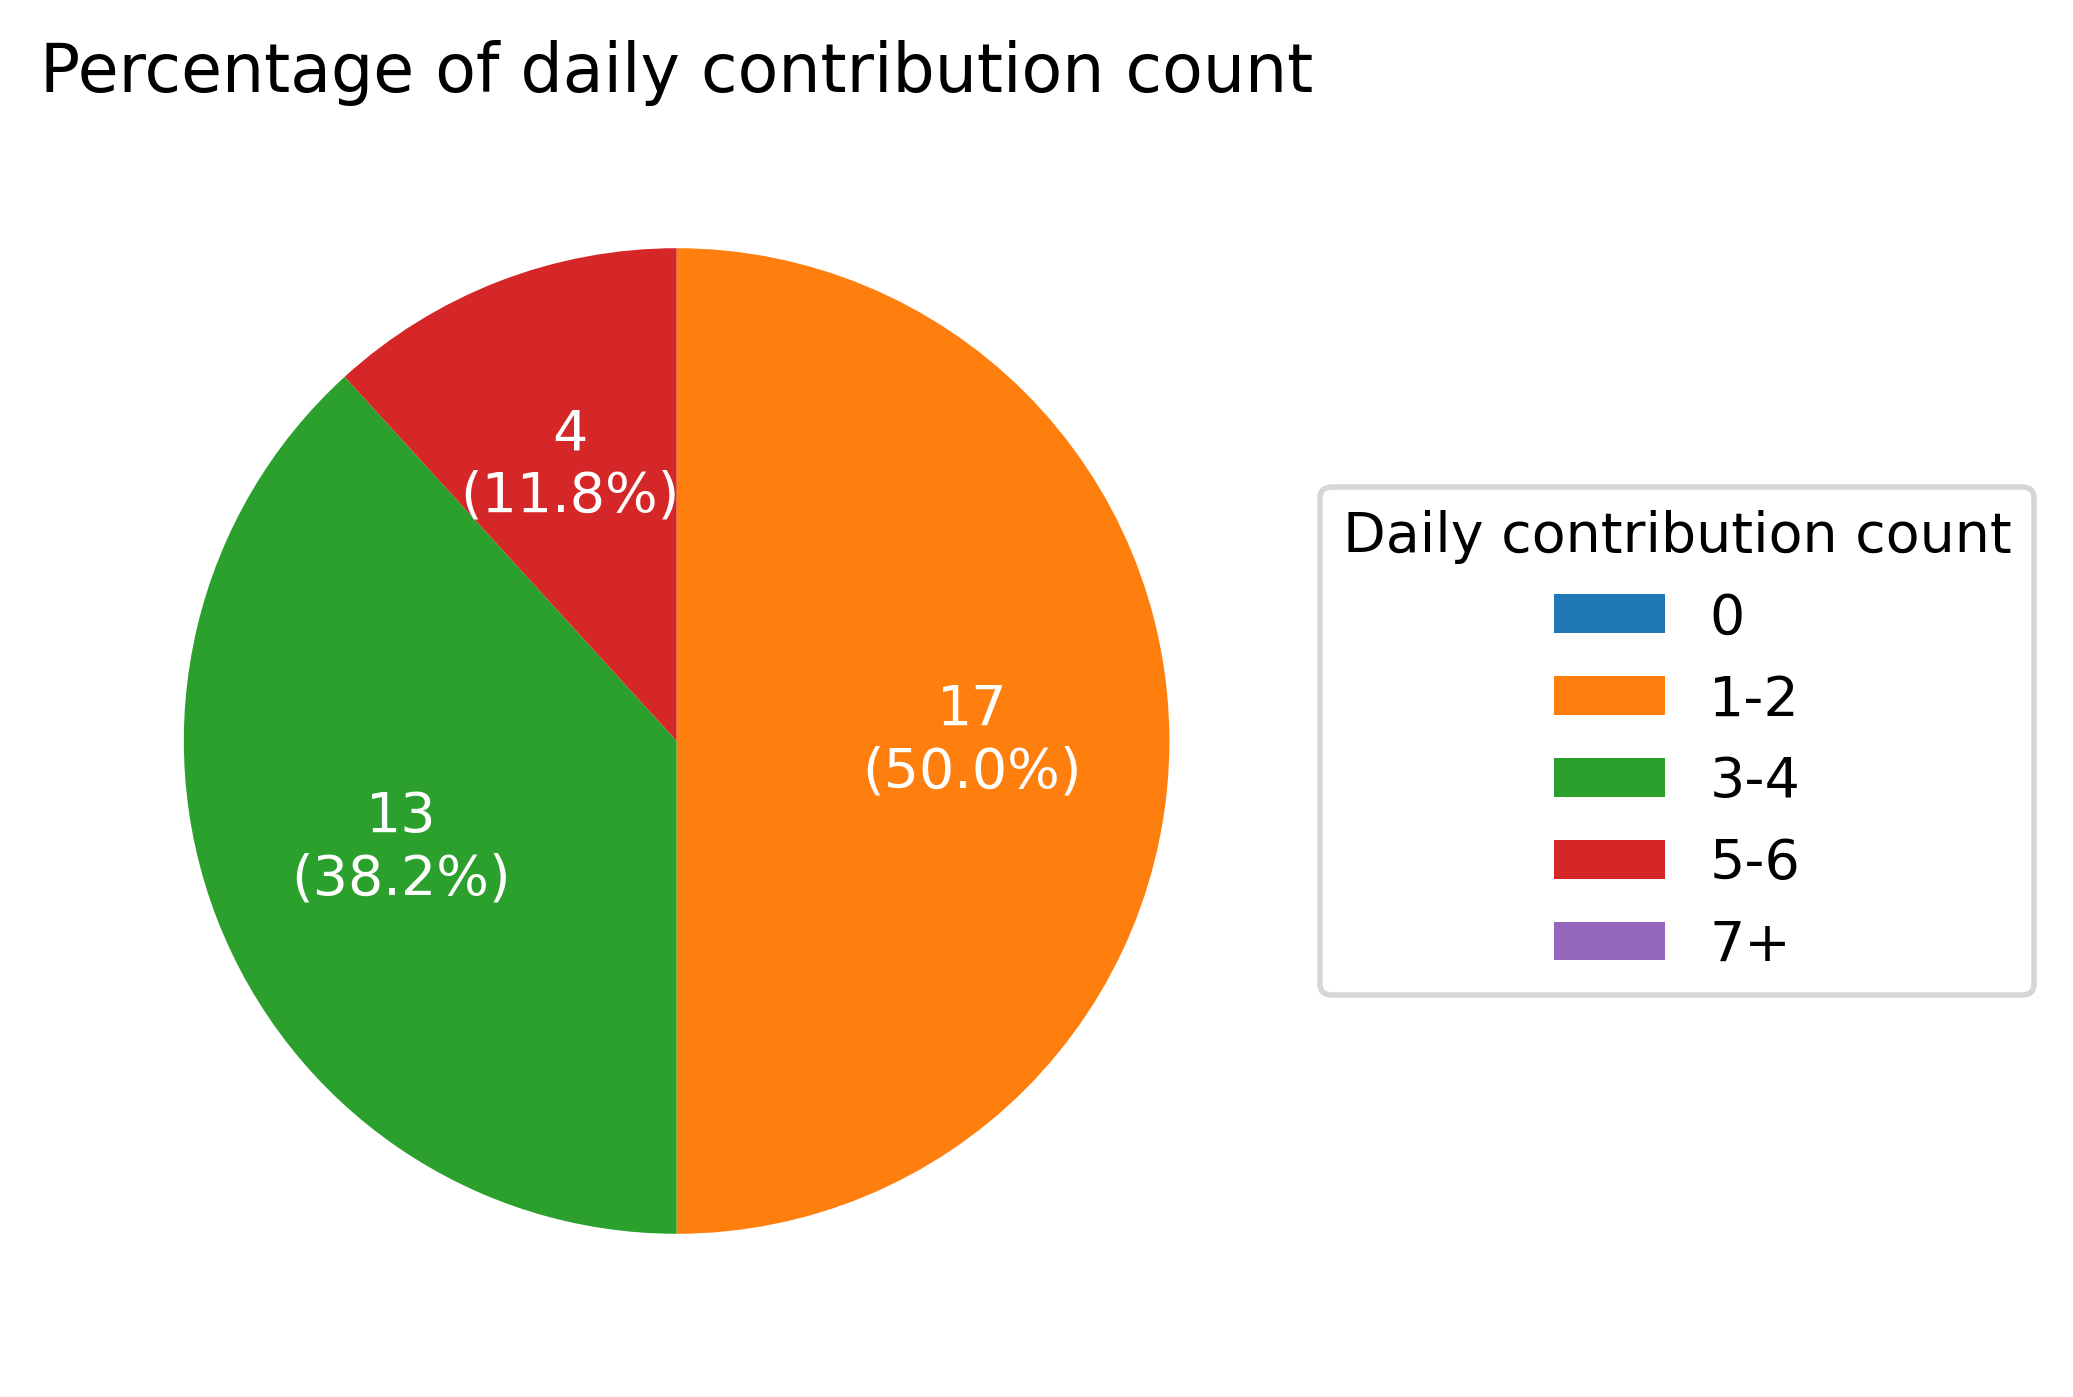
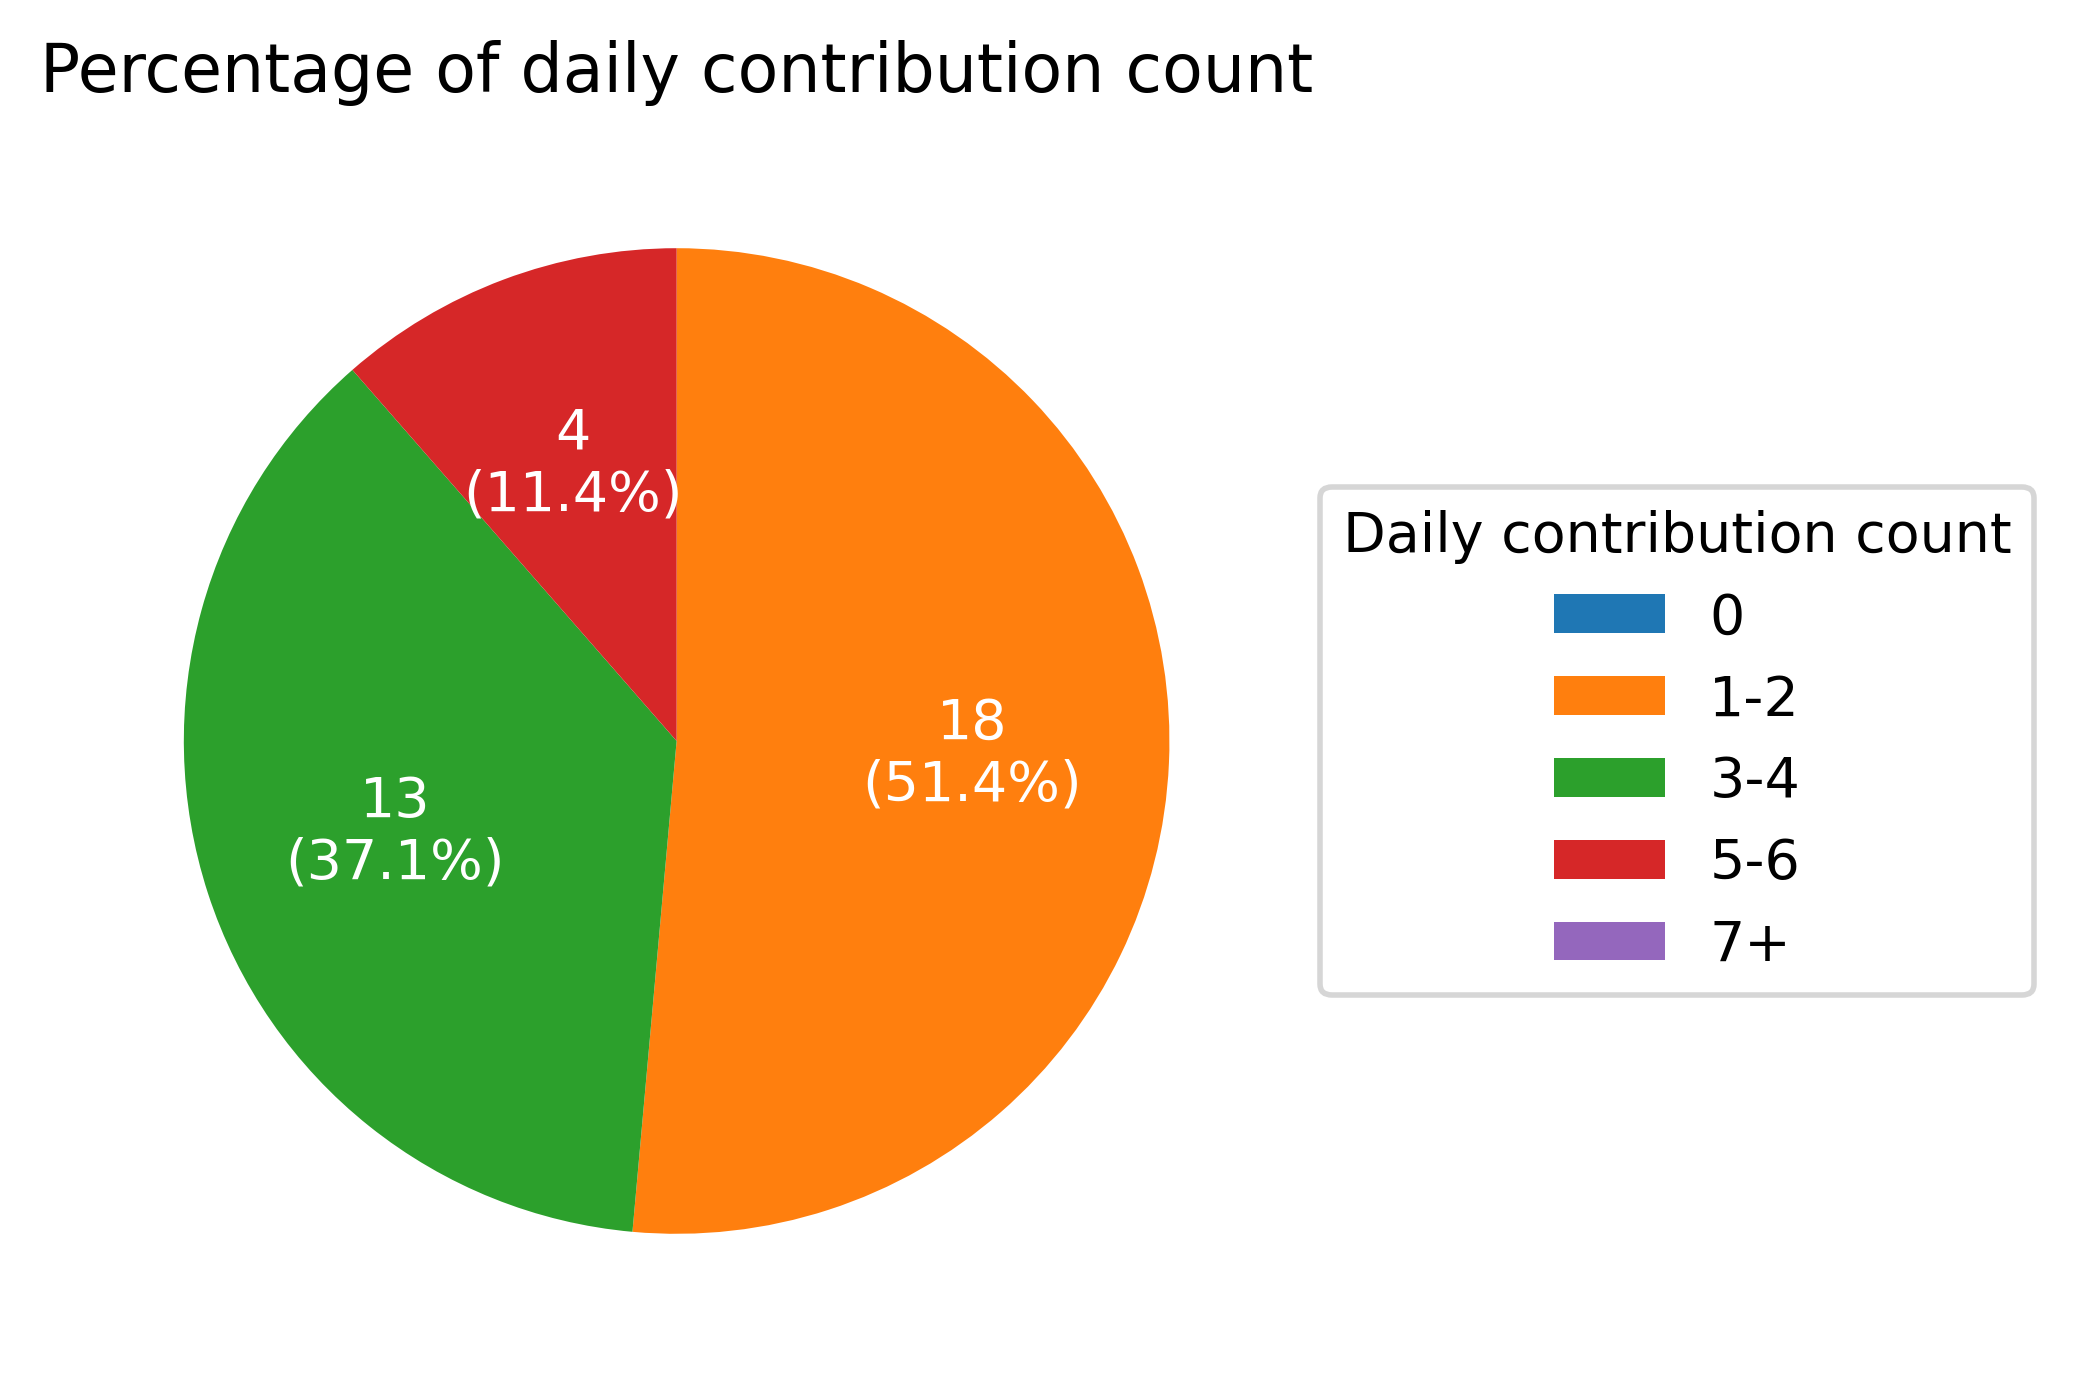
BOT: 2020-08-04 contribution check result

diff --git a/result/README.md b/result/README.md
@@ -6,15 +6,15 @@ I hope this report will be a companion for your contribution trip :airplane:
 
 
 ## Summary
-- **2020-08-03** is **34th day** since the start of trip :sweat_smile:
-- During the trip, total contribution count is **87** 
-and average contribution count is **2.56**
+- **2020-08-04** is **35th day** since the start of trip :sweat_smile:
+- During the trip, total contribution count is **89** 
+and average contribution count is **2.54**
 - Daily maximum contribution day is **2020-07-16**, which is **5**.
-- Longest continous contribution trip was **34** days 
-From **2020-07-01** to **2020-08-03** :walking:
-- Current continous contribution trip is **34** days 
+- Longest continous contribution trip was **35** days 
+From **2020-07-01** to **2020-08-04** :walking:
+- Current continous contribution trip is **35** days 
 From **2020-07-01** :running:
-- There was **2** new contribution at **2020-08-03**.
+- There was **2** new contribution at **2020-08-04**.
 Good job :+1:
 
 ## Graph
@@ -28,6 +28,6 @@ Good job :+1:
 | Week 29 of 2020 |  3  |  3  |  2  |  5  |  3  |  1  |  2  |
 | Week 30 of 2020 |  4  |  5  |  3  |  4  |  3  |  2  |  1  |
 | Week 31 of 2020 |  5  |  5  |  4  |  3  |  4  |  1  |  3  |
-| Week 32 of 2020 |  2  |     |     |     |     |     |     |
+| Week 32 of 2020 |  2  |  2  |     |     |     |     |     |
 
         
